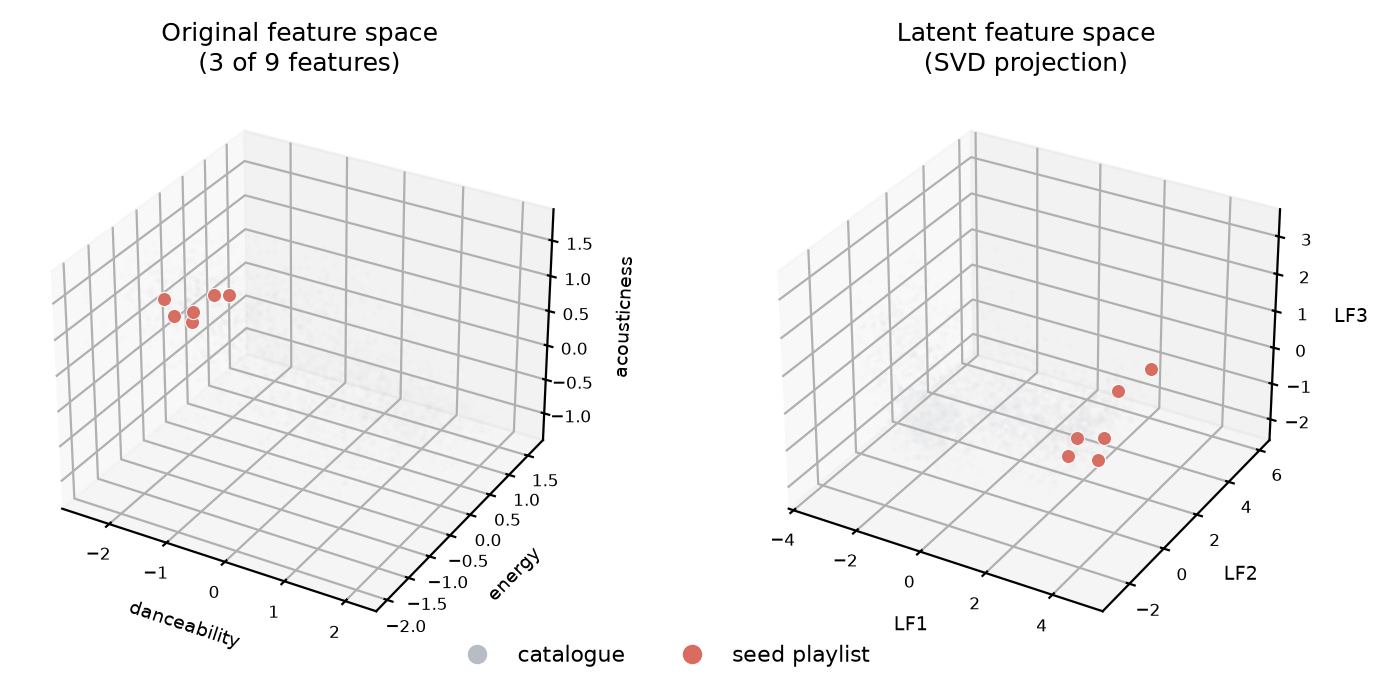
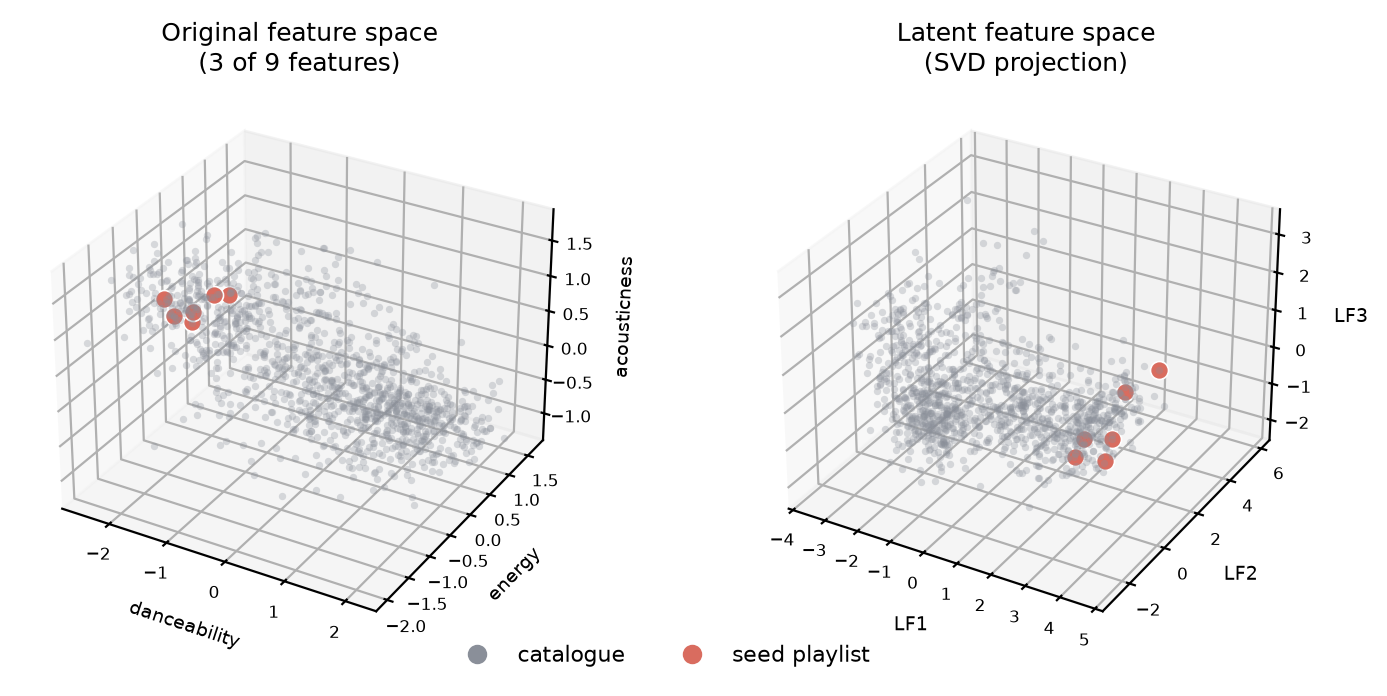
Update SVD evaluation logic and refine output values for figures

diff --git a/paper/make_figures.py b/paper/make_figures.py
@@ -293,11 +293,20 @@ def figure_evaluation(results, tests) -> dict:
     fig.tight_layout()
     _save(fig, "fig_evaluation.png")
 
-    best = max((r for r in results if r.name.startswith("svd")),
-               key=lambda r: r.metrics["ndcg"])
     raw = next(r for r in results if r.name == "raw_cosine")
+
+    # svd_k9 keeps every component, so its projection is a pure rotation and it
+    # is provably identical to raw cosine. Report it separately as a
+    # correctness check; "best" must mean the best *reduction*.
+    full_rank = next((r for r in results if r.name == "svd_k9"), None)
+    reduced = [
+        r for r in results
+        if r.name.startswith("svd") and r.name != "svd_k9"
+    ]
+    best = max(reduced, key=lambda r: r.metrics["ndcg"])
     best_test = next(t for t in tests if t.name_a == best.name)
-    return {
+
+    values = {
         "bestSvd": best.name.replace("_", r"\_"),
         "bestSvdNdcg": f"{best.metrics['ndcg']:.4f}",
         "rawNdcg": f"{raw.metrics['ndcg']:.4f}",
@@ -310,6 +319,11 @@ def figure_evaluation(results, tests) -> dict:
         "bestSvdCoverage": f"{best.metrics['coverage']:.4f}",
         "rawCoverage": f"{raw.metrics['coverage']:.4f}",
     }
+    if full_rank is not None:
+        gap = abs(full_rank.metrics["ndcg"] - raw.metrics["ndcg"])
+        values["fullRankNdcg"] = f"{full_rank.metrics['ndcg']:.4f}"
+        values["fullRankGap"] = f"{gap:.2e}".replace("e-", "e{-}") if gap else "0"
+    return values
 
 
 def figure_confusion(catalog, model) -> dict:

diff --git a/paper/figures/values.tex b/paper/figures/values.tex
@@ -1,14 +1,14 @@
 % Generated by paper/make_figures.py -- do not edit by hand.
 % Every number quoted in the paper is defined here from a live run.
 \newcommand{\ari}{0.434}
-\newcommand{\bestSvd}{svd\_k9}
-\newcommand{\bestSvdCiHigh}{+0.0000}
-\newcommand{\bestSvdCiLow}{+0.0000}
-\newcommand{\bestSvdCoverage}{0.4698}
-\newcommand{\bestSvdDelta}{+0.0000}
-\newcommand{\bestSvdDiversity}{0.2125}
-\newcommand{\bestSvdNdcg}{0.0371}
-\newcommand{\bestSvdP}{1.000}
+\newcommand{\bestSvd}{svd\_k7}
+\newcommand{\bestSvdCiHigh}{+0.0048}
+\newcommand{\bestSvdCiLow}{-0.0105}
+\newcommand{\bestSvdCoverage}{0.4875}
+\newcommand{\bestSvdDelta}{-0.0031}
+\newcommand{\bestSvdDiversity}{0.2331}
+\newcommand{\bestSvdNdcg}{0.0340}
+\newcommand{\bestSvdP}{0.427}
 \newcommand{\catalogSize}{2{,}997}
 \newcommand{\catalogSource}{synthetic}
 \newcommand{\clusterPurity}{0.591}
@@ -17,6 +17,8 @@
 \newcommand{\dominantShare}{94.6}
 \newcommand{\duplicatesRemoved}{1{,}353}
 \newcommand{\eighMaxRelErr}{5.13e{-}03}
+\newcommand{\fullRankGap}{0}
+\newcommand{\fullRankNdcg}{0.0371}
 \newcommand{\jacobiMaxRelErr}{3.27e{-}11}
 \newcommand{\kElbow}{2}
 \newcommand{\kGavishDonoho}{1}
